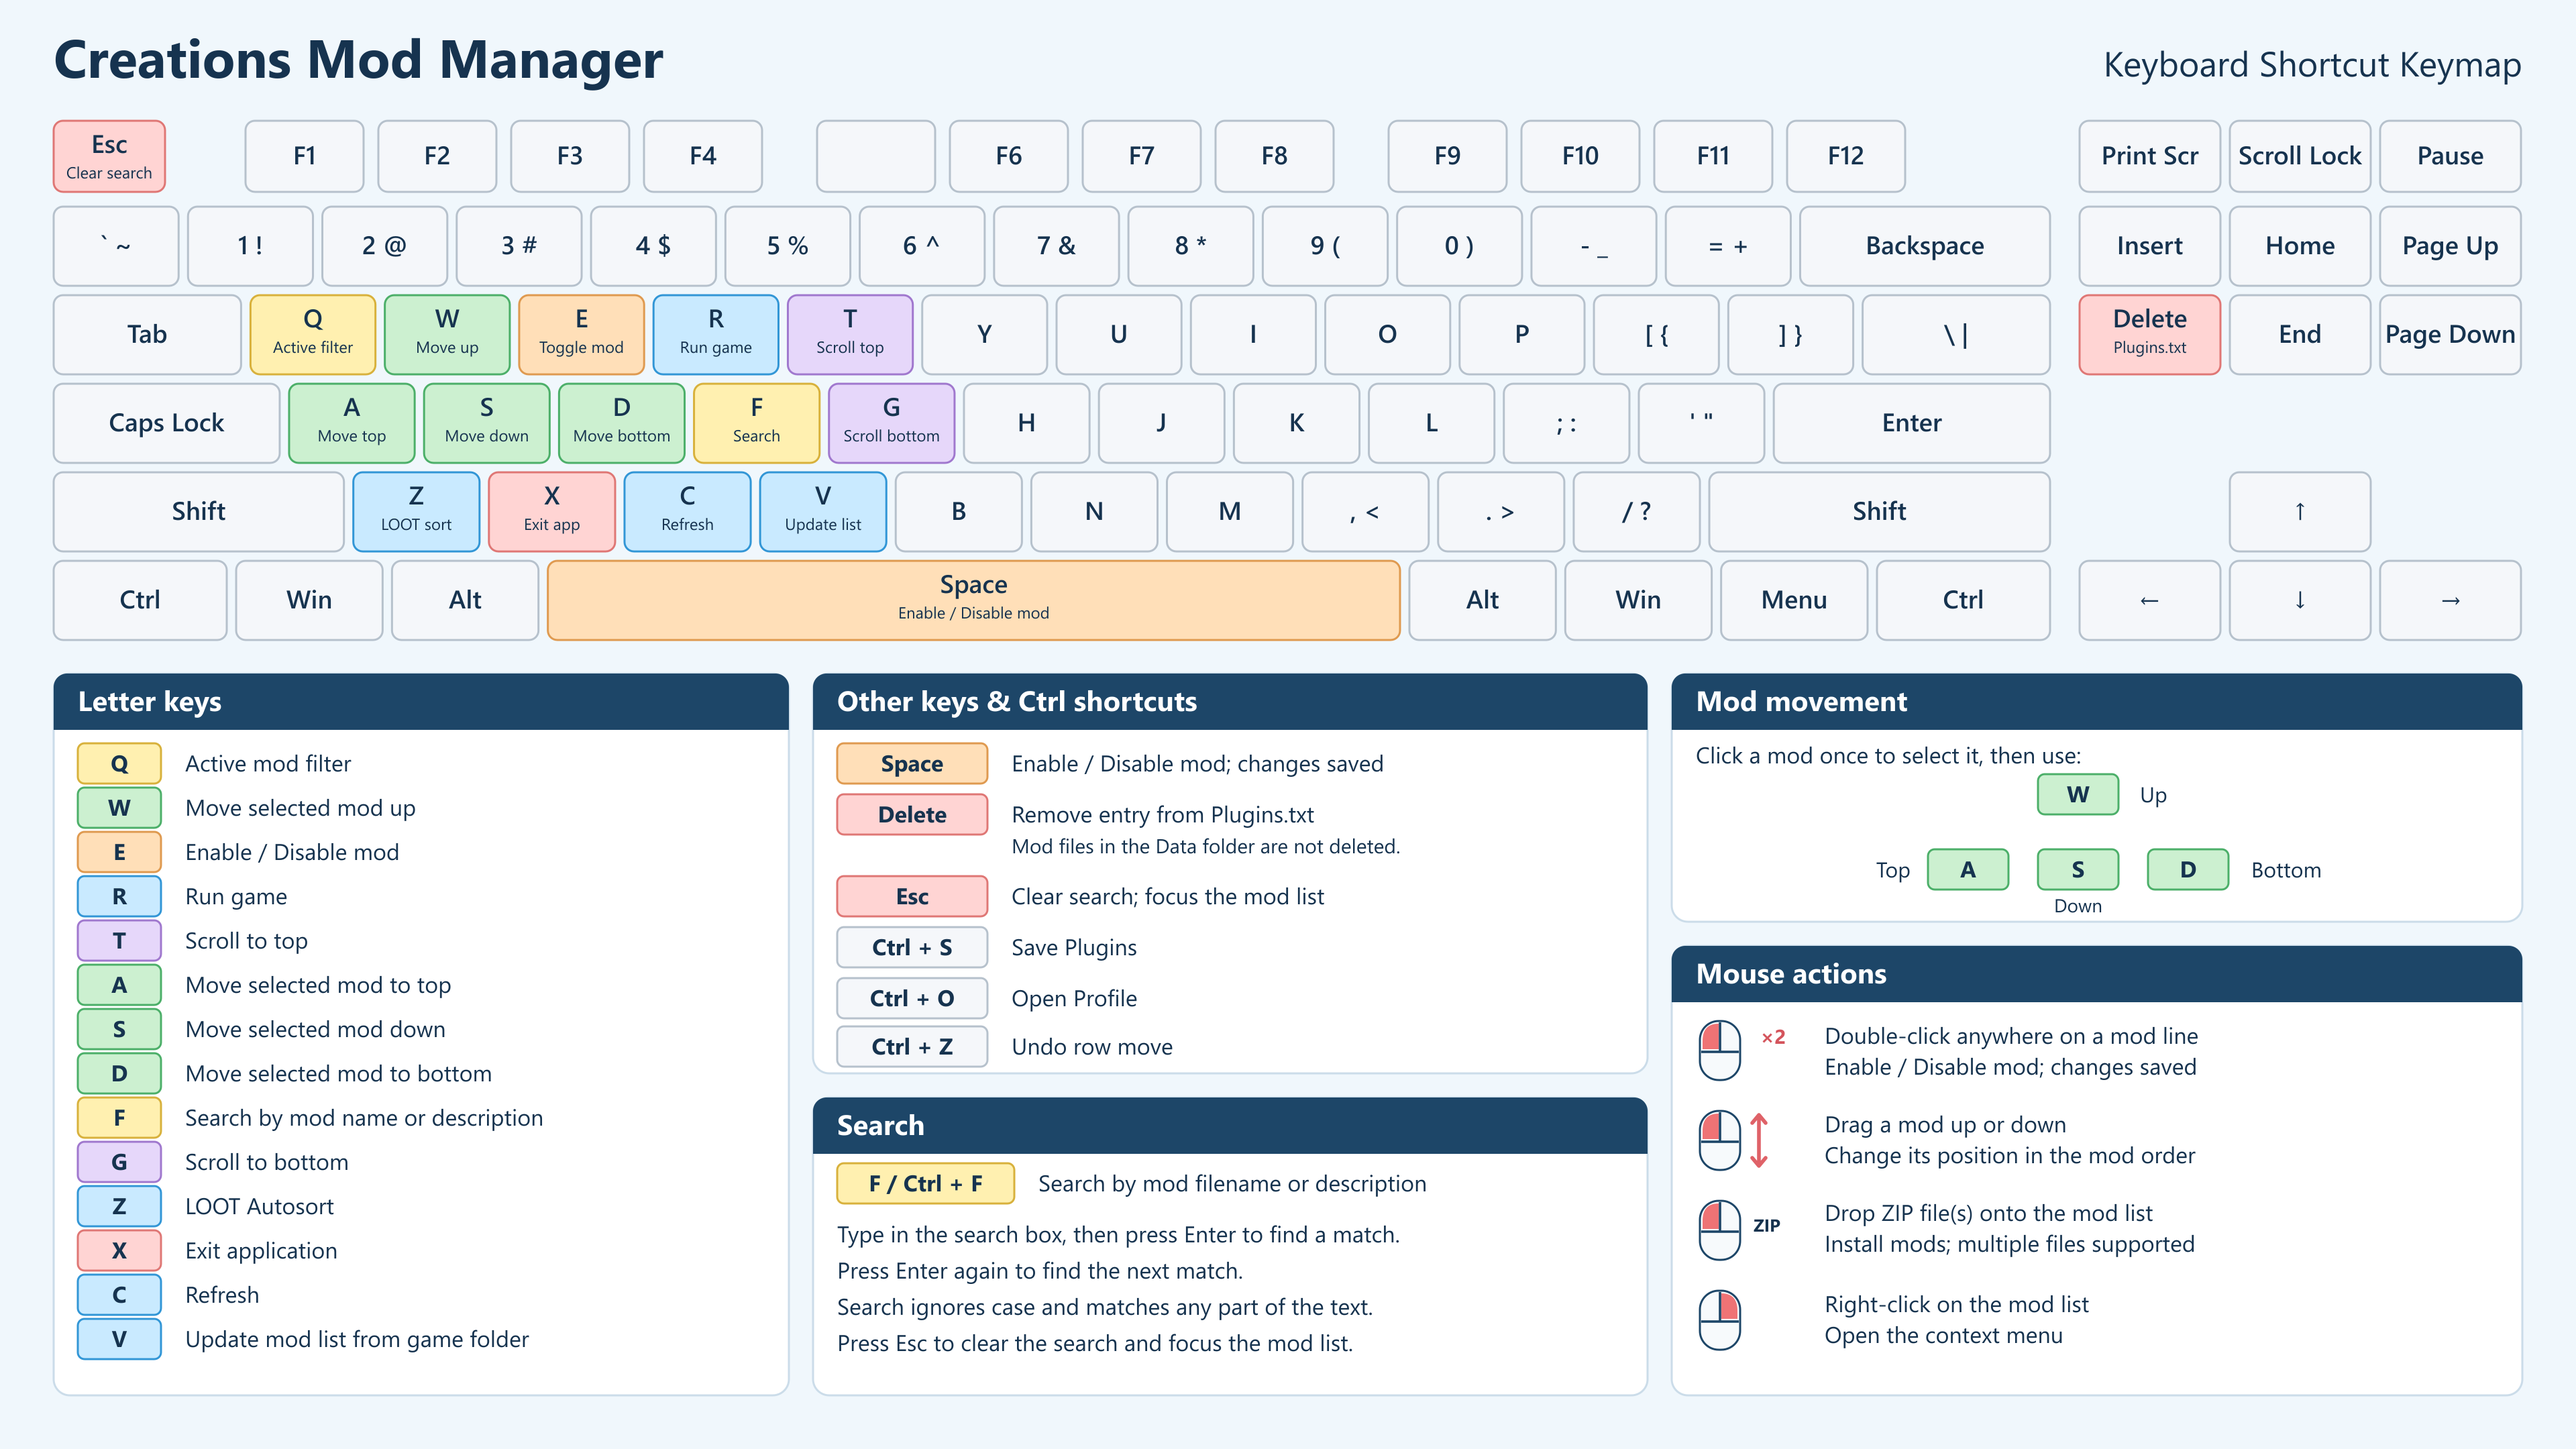
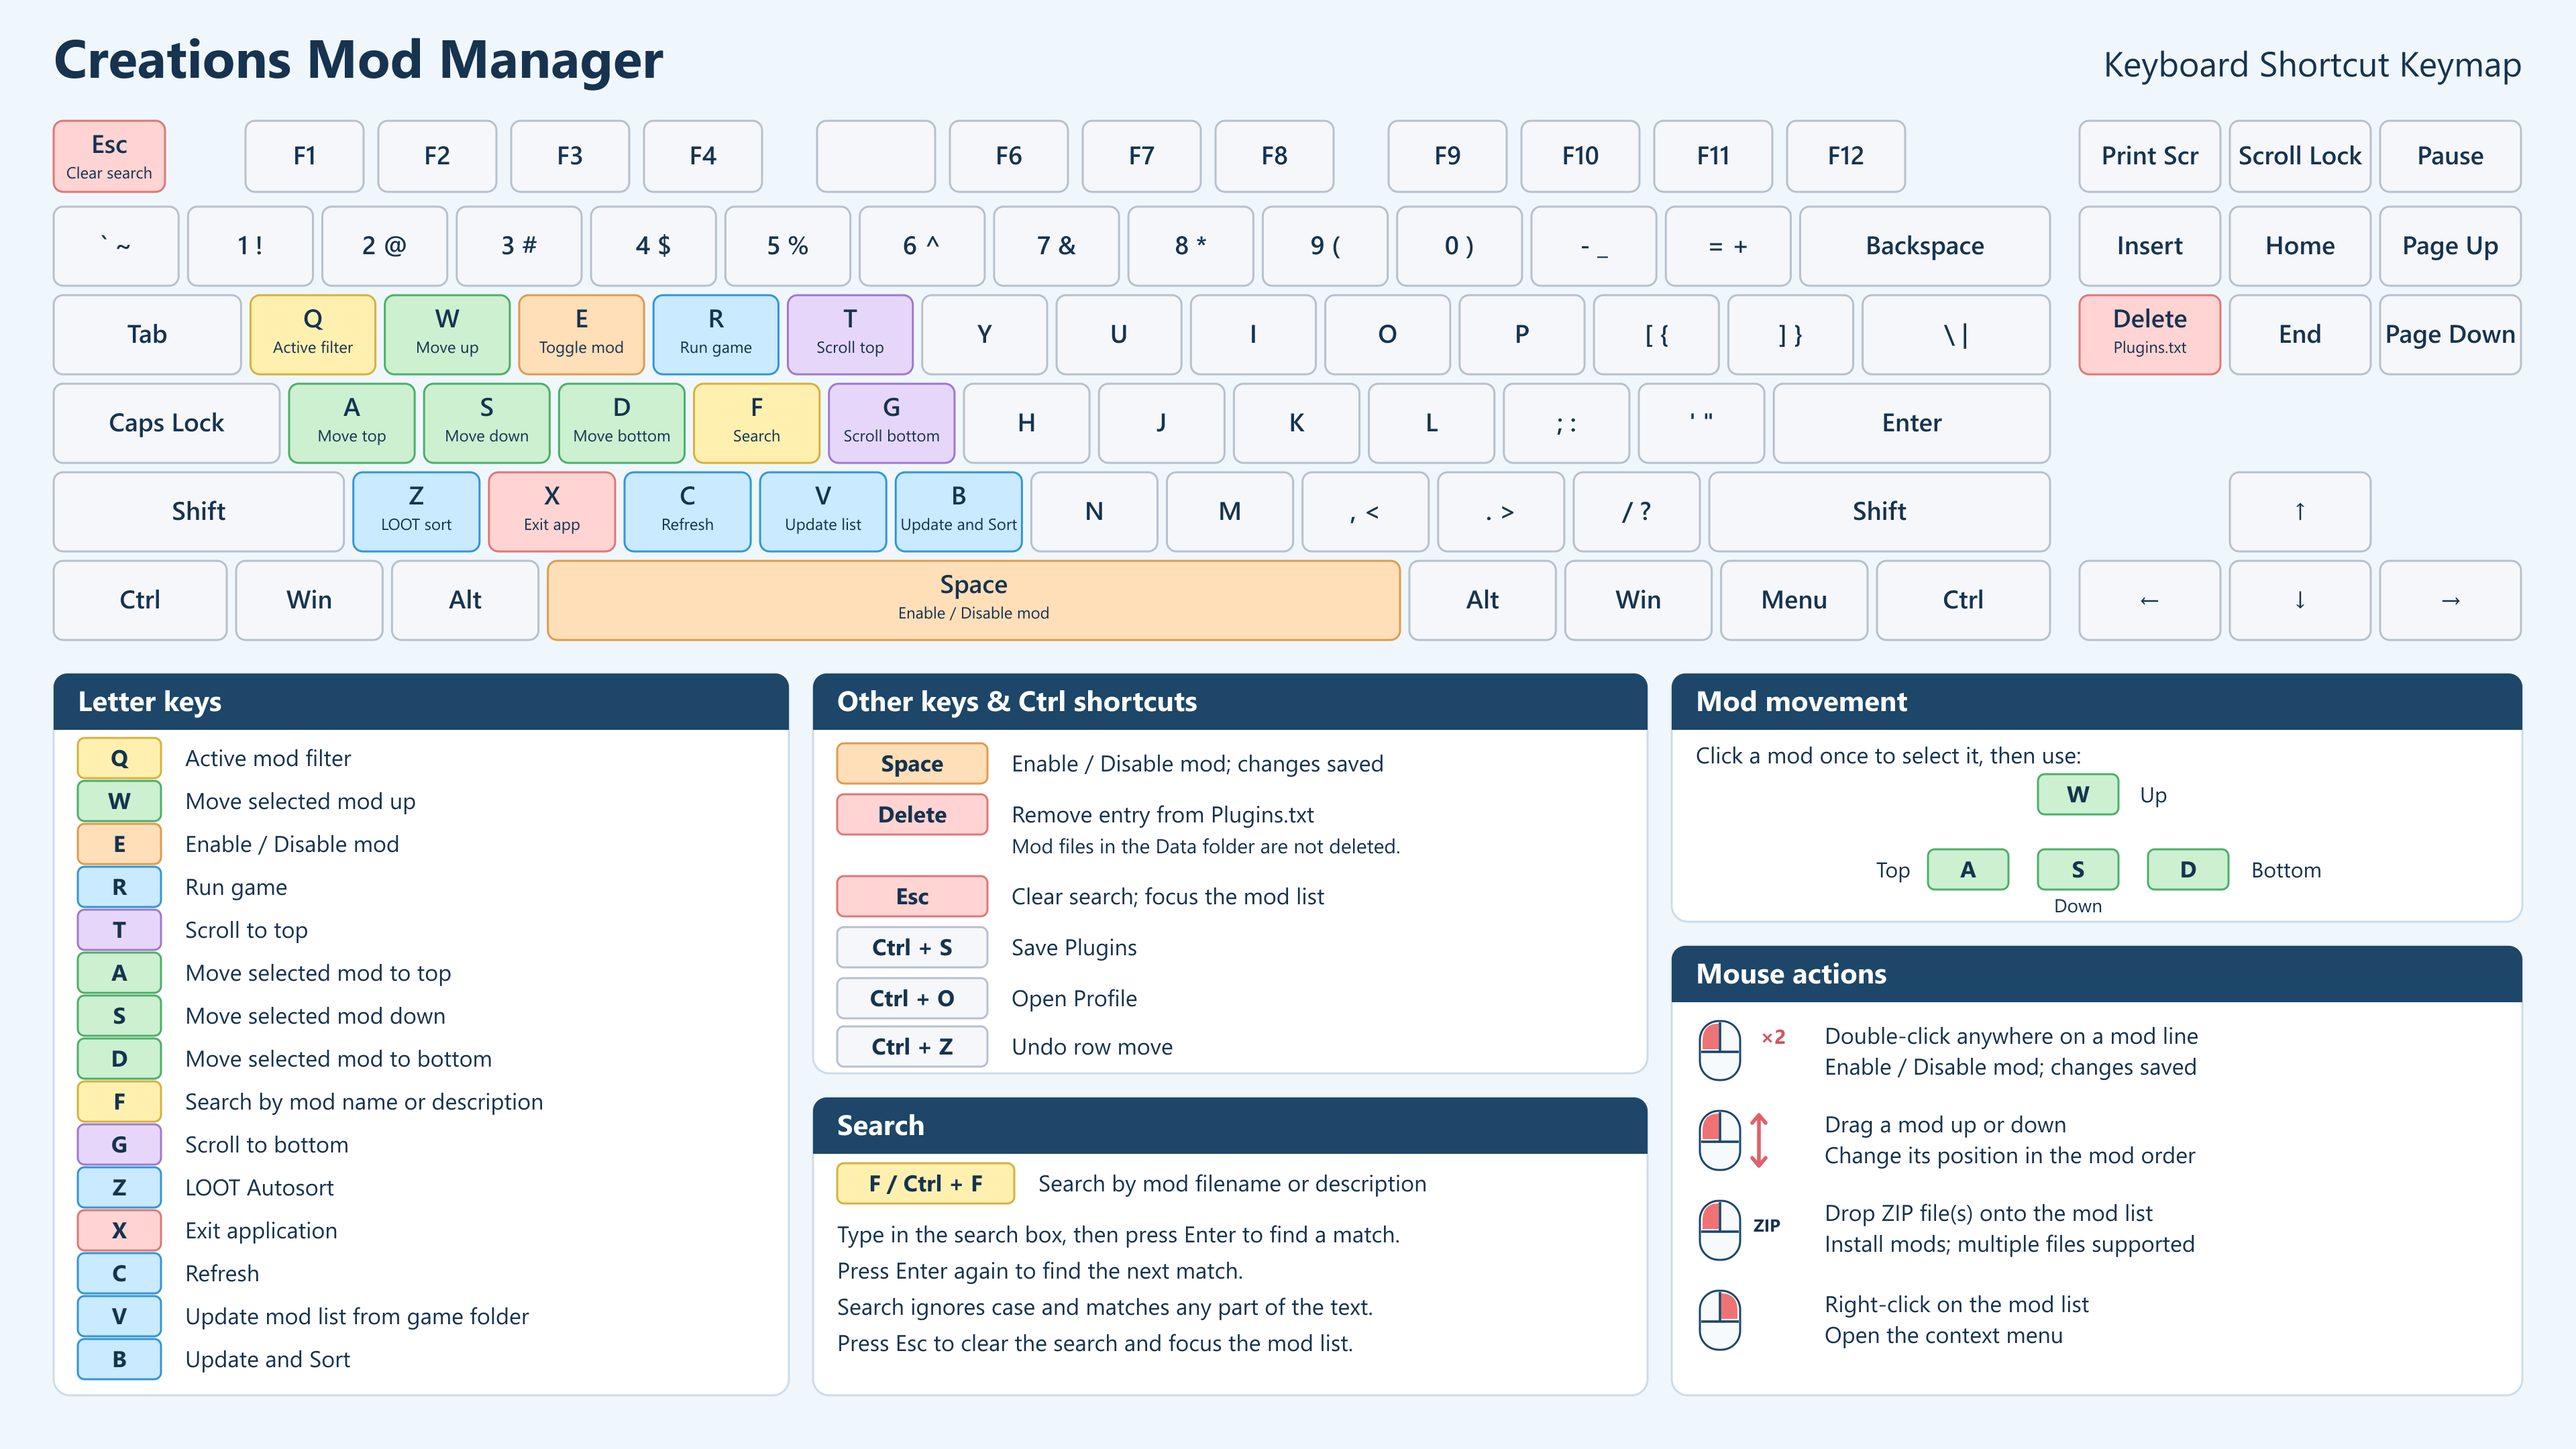
Added 'B' key shortcut - update and sort

Changed region(s): [[0.0312, 0.4963, 0.2188, 0.9616], [0.3438, 0.3102, 0.4062, 0.4032]]

diff --git a/Load Order Editor/frmLoadOrder.cs b/Load Order Editor/frmLoadOrder.cs
@@ -1426,7 +1426,11 @@ namespace hstCMM
                 case Keys.A:
                     MoveTop();
                     break;
-
+                case Keys.B:
+                    DoUpdate();
+                    RunLOOT(true);
+                    dataGridView1.Focus();
+                    break;
                 case Keys.C:
                     RefreshDisplay();
                     break;
